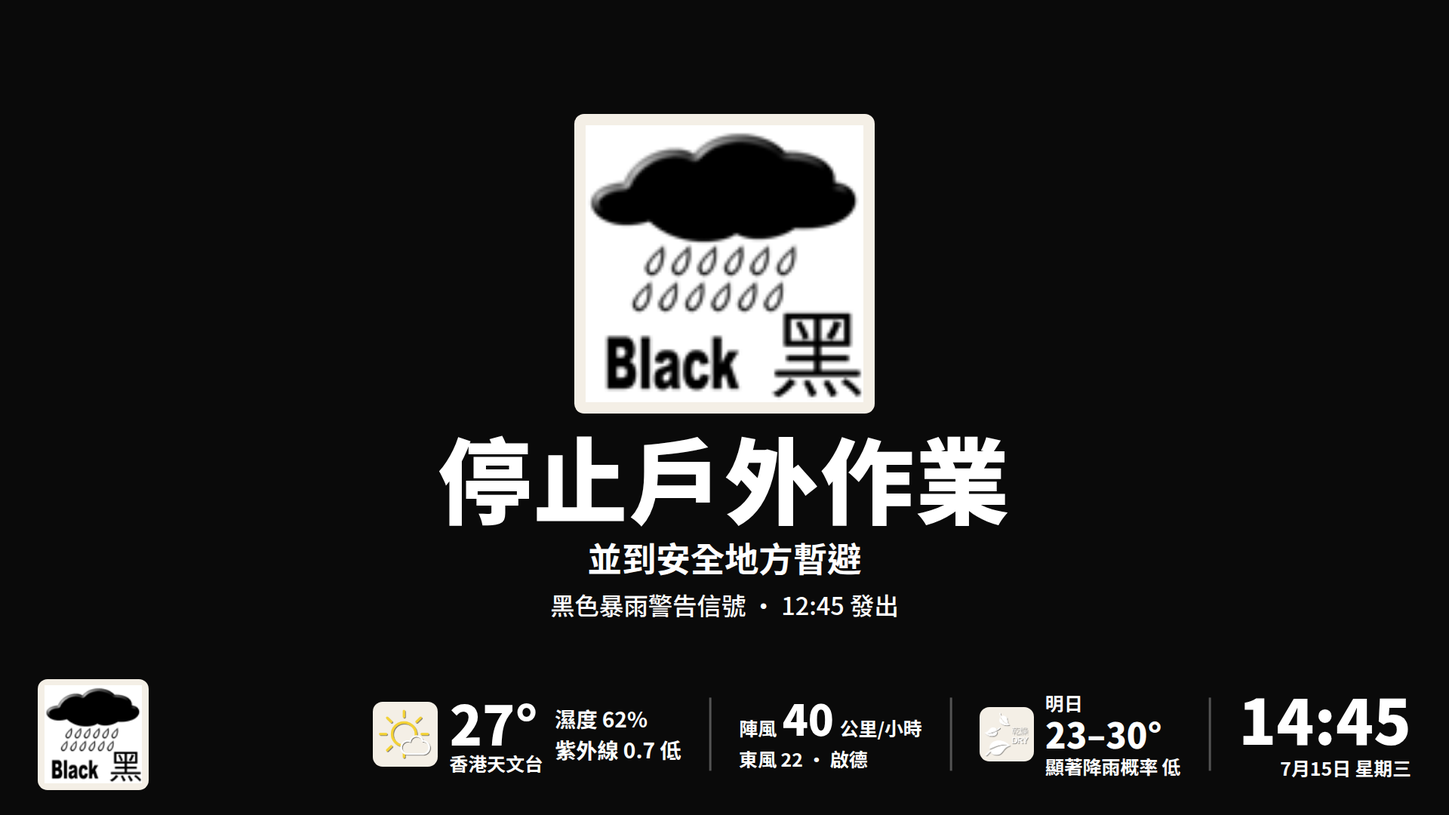
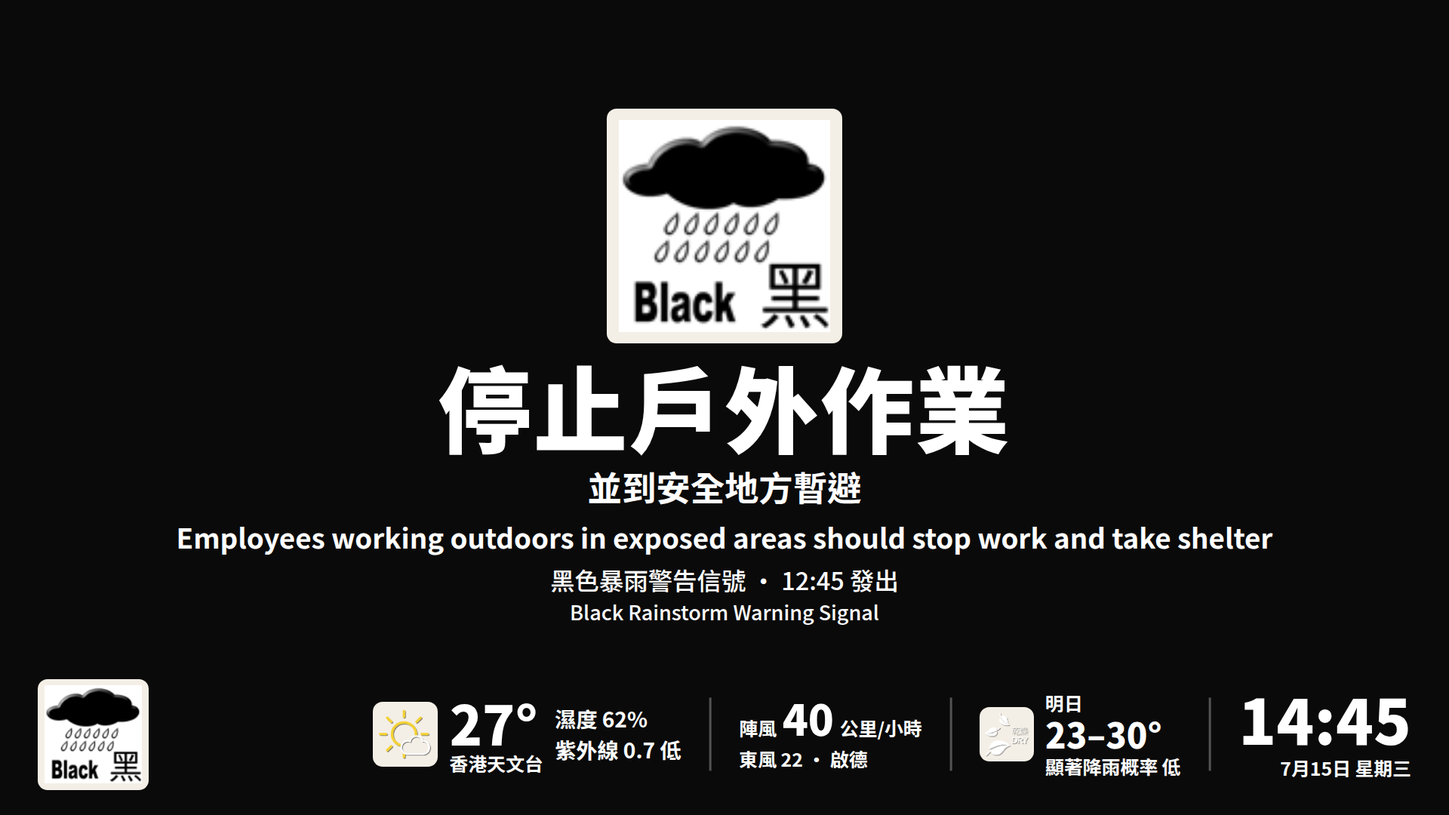
docs: official English line spec, site setup, README and screenshots
- Spec: sources and editions, every English sentence with its source,
  where the official English and Chinese differ, data model, layout and
  measured scales, re-verification.
- README and site setup: "languages" and "labelEn", the English sources,
  the English warning-name feed.
- AGENTS.md: English follows the verbatim rule; every entry needs "en".
- Main spec §9: the April re-check covers the English documents.
- Screenshots regenerated with the demo site, which now shows English,
  plus a Chinese-only Amber day.

Changed region(s): [[0.125, 0.1222, 0.875, 0.7639]]

diff --git a/docs/superpowers/specs/2026-11-07-english-line-design.md b/docs/superpowers/specs/2026-11-07-english-line-design.md
@@ -1,0 +1,190 @@
+# Official English line: design
+
+Date: 2026-11-07. Builds on `2026-10-06-gate-screen-upgrade-design.md` (wording rules, §3 and §9) and `2026-11-07-site-ready-upgrade-design.md` (site files, the measured fit, the weekly source check).
+
+## 1. Goal
+
+Many workers on Hong Kong sites read English but not Chinese. A site can now add an English line to its gate screen, under the Chinese, using **only the official English version of each sentence the screen already shows**:
+
+- The instruction under each warning, from HKO's English advice pages and LD's English Code of Practice.
+- The heat-stress tiles and the normal-day rest lines, from LD's English guidance notes.
+- HKO's English warning names, from HKO's English feeds.
+
+Chinese stays the main text. Where LD or HKO publish no English version of a sentence, the screen shows no English for it. Nothing is translated by us.
+
+## 2. Non-goals
+
+- **Translating anything.** No English is written by us. When an official English sentence does not exist, the line stays Chinese only.
+- **The banner, the bar and the screen's own words** stay Chinese: 主管注意, 正常工作, 最新, 資料過期, 陣風, 濕度 and so on. They are not official sentences, so they have no official English.
+- **The banner in English.** HKO's English feeds have the English text, but the banner is a one-line ticker and would need its own layout. A follow-up if sites ask for it (§12).
+- **Other languages.** Many workers read neither Chinese nor English (South Asian languages in particular), but LD and HKO do not publish these instructions in them, so the same rule allows nothing for them yet.
+- **Changing what is in force.** English never decides a warning, a rest time or a tile. It is looked up after the Chinese screen is decided.
+
+## 3. Sources (checked 2026-11-07)
+
+The current English versions on labour.gov.hk and hko.gov.hk, each the counterpart of a Chinese source already used:
+
+| Key | Source | Edition |
+|---|---|---|
+| `ld-gn-heat-en` | LD, Guidance Notes on Prevention of Heat Stroke at Work, https://www.labour.gov.hk/common/public/oh/Heat_Stress_GN_en.pdf | Third edition (Revised) August 2026 |
+| `ld-cop-weather-en` | LD, Code of Practice in Times of Adverse Weather and "Extreme Conditions", https://www.labour.gov.hk/eng/public/wcp/Rainstorm.pdf | May 2026 |
+| `hko-tc-en` | HKO, Precautionary Measures when Tropical Cyclone Warning Signals are in force, https://www.hko.gov.hk/en/informtc/precaution.htm | web page |
+| `hko-rain-en` | HKO, Rainstorm Warning System, https://www.hko.gov.hk/en/wservice/warning/rainstor.htm | web page |
+| `hko-landslip-en` | HKO, Landslip Warning, https://www.hko.gov.hk/en/wservice/warning/landslip.htm | web page |
+| `hko-tsunami-en` | HKO, Tsunami Monitoring and Warning in Hong Kong, https://www.hko.gov.hk/en/gts/equake/tsunami_mon.htm | web page |
+
+Both English PDFs are the same editions as the Chinese ones (the Code's Chinese version is dated June 2026, its English May 2026), and the English Appendix 4 and 4(a) give the same rest times as `config/rest_schedule.json`. Their sha256, size and Last-Modified are in `config/official_sources_lock.json` (27 Aug 2026 and 4 May 2026).
+
+**Warning names** come from HKO, never from us:
+
+- Warnings in force: HKO's English warning summary, `warnsum` with `lang=en`, the same feed as the Chinese one in English. Polled every 60 s, last in the cycle, so a slow English endpoint never delays the Chinese feeds. It never decides what is in force: names are looked up by code for the warnings the Chinese feed says are in force. A warning whose English name HKO has not sent shows no English name.
+- Heat Stress at Work Warning: `TitleEN` in `hkhi_icon.xml`, next to the `TitleTC` already used (for example "Amber Heat Stress at Work Warning").
+- Pre-No. 8 Special Announcement: not in `warnsum`. Its English name, "Pre-no.8 Special Announcement", is HKO's own, from the English Open Data API documentation (`warningInfo`, code `WTCPRE8`).
+
+## 4. Every English sentence on the screen
+
+Each is a verbatim, contiguous part of the quoted official sentence. The quotes are in `config/display_actions.json`, next to the Chinese.
+
+**Weather instructions** (under the Chinese instruction):
+
+| Warning | English shown | Source |
+|---|---|---|
+| Signal 10 | Remain where you are if protected and be prepared for destructive winds and the change in wind directions | `hko-tc-en` |
+| Signal 9 | Stay indoors. If you are reasonably protected, stay where you are | `hko-tc-en` |
+| Black rain | Employees working outdoors in exposed areas should stop work and take shelter | `hko-rain-en` |
+| Signal 8 | employees should be released from workplaces or from work by batches / Return home as soon as possible if conditions so permit | `ld-cop-weather-en`, `hko-tc-en` |
+| Landslip | Pedestrians should avoid walking or standing close to steep slopes and retaining walls / the operation of cranes, suspended working platforms, slope works, etc. should be suspended | `hko-landslip-en`, `ld-cop-weather-en` |
+| Tsunami | Stay away from shores, beaches and low-lying coastal areas. If you are there, move inland or to higher grounds | `hko-tsunami-en` |
+| Pre-No. 8 | employees should be released from workplaces or from work by batches | `ld-cop-weather-en` |
+| Red rain | Employees working outdoors in areas exposed to rain should suspend outdoor duties if weather conditions in those areas so warrant | `hko-rain-en` |
+
+**Supervisor lines** (CoP Appendix 2):
+
+| Warning | English shown |
+|---|---|
+| Thunderstorm | where employees are liable to lightning strikes: stop work as far as practicable and take shelter in a safe place immediately |
+| Strong Monsoon | the operation of cranes, suspended working platforms, slope works, etc. should be suspended |
+| Signals 1 and 3 | Stop the operation of cranes, suspended working platforms, etc. |
+| Amber rain | Suspend the operation of suspended working platforms, slope works, etc. |
+
+**Heat stress** (guidance notes):
+
+| Where | English shown | Source in the guidance notes |
+|---|---|---|
+| Tile, rest and work | `{rest} mins rest`, `{work} mins work` | Appendix 4 cells, e.g. "45 mins work 15 mins rest (75% work; 25% rest)" |
+| Tile, suspended | Suspension of work | Appendix 4 |
+| Tile, 2-hour baseline | at least `{rest}` minutes of rest for every `{hours}` hours of work | §5.5.4 |
+| Generic site's tile labels | Light, Moderate, Heavy, Very Heavy | Appendix 4 column headings |
+| Note | employees are unacclimatised or need to re-acclimate to hot work environment: increase the hourly rest time for such employees by 15 minutes | §5.4.4 |
+| Normal day | heavy to very heavy levels of physical work: at least a `{rest}`-minute rest break after every `{hours}` hours of work, and the same for light to moderate work with "a minimum of a `{rest}`-minute rest break" | §4.7.1 |
+
+The rest wording is a template because the numbers live in `config/rest_schedule.json` only (AGENTS.md). The test fills it in with every value the schedule can produce, for every warning level, workload, environment and site adjustment, and checks each result against the quotes. A schedule change that the quoted paragraphs do not cover (a baseline of 20 minutes, say) fails the test until a person re-verifies the guidance notes.
+
+**Where the official English and Chinese differ.** Each language shows its own official text, so these differences reach the screen as LD and HKO wrote them:
+
+- **Red rain:** the Chinese says suspend outdoor work 直至天氣情況許可為止 (until the weather permits). The English says "suspend outdoor duties if weather conditions in those areas so warrant".
+- **Signal 10:** the Chinese says do not leave shelter (切勿離開有遮蔽的地方). The English says "Remain where you are if protected".
+- **Thunderstorm:** the English shown includes "as far as practicable", which sits inside the one English clause. The Chinese line leaves out 在切實可行範圍內盡量, which comes before its fragment.
+- **Signals 1 and 3, amber rain:** the English keeps "etc.", and the Chinese fragments end before 等.
+- **Strong Monsoon and Landslip (CoP):** the condition says "Strong Monsoon Signal **or** Landslip Warning" in English and 強烈季候風信號**及**山泥傾瀉警告 in Chinese. The screen shows only the instruction, which is the same in both.
+- **Signal 8 (HKO):** the English puts the condition last ("…if conditions so permit"), the Chinese first (如情況許可，…).
+
+## 5. Data
+
+**Site file.** Two optional fields, validated like the others (a mistake leaves the file out and names it in `/api/v1/health`):
+
+| Field | Meaning |
+|---|---|
+| `languages` | `["zh"]` (the default) or `["zh", "en"]`. Chinese is always shown, so anything without `"zh"`, an unknown code or a repeat is a mistake |
+| `primaryTrades[].labelEn` | The trade's English name, shown under `labelZh` on the tiles. A non-empty string |
+
+`labelEn` is the site's own name for the trade, as `labelZh` is. The demo site uses the names in the English Appendix 1 of the guidance notes, which is what sites should use where the trade is listed. A tile shows English names only when every trade on it has one. Otherwise it shows the English rest times without names, never a mix. The generic site's tiles use the official English workload levels.
+
+**`config/display_actions.json`.**
+
+- Every source has `"lang": "zh"` or `"en"`, and the six English sources are added (§3).
+- Every weather, supervisor and note entry has an `"en"` key: its English `lines` (weather) or `fragments` (supervisor, note), with their own `quotes`. `"en": null` means no official English sentence exists, and the screen shows none. The key is required, so a new entry cannot silently miss its English.
+- A new `rest` section holds the English rest templates and their quotes.
+
+**The guard** (`app/actions.py`, `tests/test_display_actions.py`):
+
+- An English fragment must be a contiguous part of one of its quotes, and the quote must come from an English source. Chinese must come from a Chinese source.
+- Chinese ignores whitespace, because PDF text breaks lines anywhere. English treats a run of whitespace as one space, so a changed word boundary ("Stayindoors") fails. A line break inside a stored fragment does not.
+- The only text on the screen that is not quoted is the joiner between fragments, `：` in Chinese and `: ` in English.
+
+**Snapshot.** English fields appear only for a site that shows English, so a Chinese-only snapshot is unchanged apart from `site.languages`:
+
+| Field | Content |
+|---|---|
+| `display.en` | The English lines under the instruction: the warning's, or the normal day's rest lines. `[]` on heat-stress days, whose English is on the tiles |
+| `display.metaEn` | HKO's English warning or HSWW name, or `null` |
+| `restTiles[].en` | `trades`: the English names, or `null`. `lines`: the tile's English |
+| `supervisor[].textEn`, `fromEn` | The line's English and the warning's English name, either `null` when there is none |
+| `notesEn` | One per Chinese note, in the same order, `null` where there is none |
+| `site.languages` | Always present |
+
+## 6. Warning names fixed on the way
+
+HKO's `warnsum` puts only the colour in `type` for rainstorm and fire danger warnings (`"黃色"`, `"Amber"`), with the name in `name`. The screen showed `type` whenever it was present, so the live screen named a black rainstorm 「黑色」. Tropical cyclone signals carry their full name in `type`. `warning_name()` now joins colour and name for `WRAIN*` and `WFIRE*` (黑色暴雨警告信號, "Black Rainstorm Warning Signal"). The preview cases now use the live feed's shape. Separate commit, `82b8bed`.
+
+## 7. Screen
+
+- **Weather and normal days:** the English lines go under the Chinese instruction as one block, a little smaller than the Chinese sub-line (Latin letters already look smaller than Chinese at the same size) and lighter. They are balanced when they wrap and never hyphenated, and a hyphenated word ("re-acclimate", "15-minute") never breaks at its hyphen. HKO's English warning name goes under the Chinese warning line.
+- **Tiles:** the English trade names go under the Chinese ones, in the tile's heading. The tile's English goes under its Chinese lines as one block: "45 mins rest" and "15 mins work" side by side when they fit, "Suspension of work", or the 2-hour baseline's one sentence, which covers both its Chinese lines. So the Chinese lines stay together, as on a Chinese-only site. An English trade name stays on one line when it fits and wraps inside itself only when it is wider than the tile. An earlier version put each English line under its own Chinese line. It was busier and taller: 65 % against 67 % for the busy test site's Amber day in landscape.
+- **Supervisor lines:** the English takes a row of its own in the same box, with the warning's English name after it.
+- **The icon gives up room first.** On a site that shows English, the large icon is smaller (landscape weather and normal days 26 % of the height instead of 34 %), so most screens fit without shrinking.
+- **The measured fit still applies.** The centre is scaled down as a whole when it is too tall, to no less than 60 %.
+- **English never takes the Chinese's room.** If the centre does not fit even at 60 %, the screen gives up English, lowest value first: the warning's English name and the note's English, then the supervisor lines' English, then all of it. With everything given up, the centre is no taller than on a Chinese-only site, because the icon is smaller too. New content or a new screen size starts again from nothing given up, and the measurement runs before paint. The rule is to shrink first and give up English only at the floor, because the English is official safety wording too, and the existing design already accepts 60 % on busy days.
+
+**Measured** at 1920×1080 and 1080×1920 with the demo site, every preview case (§10). The scale is the centre's size (100 % = not shrunk), with the Chinese-only figure for the same case in brackets:
+
+| Case | Landscape | Portrait |
+|---|---|---|
+| Weather instructions (Signals 8–10, black and red rain, tsunami, Pre-No. 8, landslip) | 98–100 % (100 %) | 100 % (100 %) |
+| Normal day, with or without other warnings on the bar | 95 % (100 %) | 91–100 % (100 %) |
+| Heat stress, Amber / Red / Black | 96–100 % (100 %) | 76–78 % (96–100 %) |
+| Normal day with one supervisor line (Signal 1 or 3, Strong Monsoon, amber rain, thunderstorm) | 83–86 % (100 %) | 75–89 % (94–100 %) |
+| Amber heat stress with Signal 1 or 3 | 85 % (100 %) | 66 % (94 %) |
+| Amber rain with Signal 3 (two supervisor lines) | 78 % (98 %) | 71 % (94 %) |
+| Amber heat stress with a thunderstorm | 82 % (100 %) | 64 %, the warning's and the note's English given up (81 %) |
+
+Nothing runs into the bar or under the banner in any case, in either orientation. The busiest days are portrait heat-stress days with a supervisor line, which the Chinese-only screen already shrinks. A busy test site with five or six tile groups and long English names shows everything at 60–67 % in landscape. In portrait it gives up the warning's and the note's English on heat-stress days (63 %), and all of the English when a supervisor line is added too (67–75 %). Nothing overlaps there either.
+
+## 8. Rules for the future
+
+- English wording follows the same rule as Chinese: a verbatim, contiguous part of a quoted official English sentence, from an English source, in `config/display_actions.json`. Never a translation and never a paraphrase. AGENTS.md says so.
+- A new instruction needs its `"en"`: the official English, or `null` when there is none.
+- The screen's position, like everything else, never changes the English.
+
+## 9. Re-verification
+
+- The weekly check (`scripts/check_official_sources.py`) downloads the English sources too and checks every English quote, including the rest wording. The two English LD PDFs are in the lock, so a change to either fails the check until a person has re-verified it.
+- The April checklist (main spec §9) now includes the English documents. Compare the English Appendix 4 and 4(a) with `config/rest_schedule.json` as well, and check the English trade names in site files when Appendix 1 changes.
+- Run on 2026-11-07: all 12 sources downloaded and every Chinese and English quote found. The two English PDFs were then added to the lock.
+
+## 10. Testing
+
+- pytest, 299 tests (43 new). New:
+  - the guard: an English paraphrase, a joined-up word, a line break, a Chinese source cited for English and the reverse, a missing `"en"`, `null`, an empty list, and a missing or unknown `lang`;
+  - the rest wording: every value the schedule can give, a schedule the quotes do not cover, a broken template, and the normal-day grouping;
+  - site files: `languages` (valid, missing `"zh"`, unknown code, repeat, not a list) and `labelEn`;
+  - tiles: English names, the generic site's workload levels, and a tile with a trade that has no English name;
+  - snapshots: a Chinese-only site gets no English field; weather, Pre-No. 8, heat and normal days in English; no English name rather than a guess;
+  - every preview case: English never changes the Chinese, and every case has its English where an official one exists;
+  - the API: names from HKO's English feed, a Chinese-only `?site=`, a failing English feed never affecting warnings or health, and the poller asking for `lang=en`;
+  - the source check: English sources, quotes and the rest section.
+- Real Chrome (Playwright, by hand), every preview case at 1920×1080 and 1080×1920:
+  - with English (demo site): nothing runs into the bar or under the banner, nothing leaves the screen or its tile, no text wider than its box, no overlap between lines, and no console errors;
+  - Chinese-only (the demo site without `languages`): pixel-identical to the screen before this change in all 88 screens. A first pass differed in a few screens only where HKO's blinking "issuing" icons (two-frame GIFs) were caught on the other frame, or a web-font subset arrived late; each was identical when shot again. The new Chinese-only screenshot `docs/demo/amber-zh.png` is byte-identical to the old `amber.png`;
+  - a busy test site (five or six tile groups, long English names) on heat-stress days, to check the English is given up in order and nothing overlaps.
+
+## 11. Rollout
+
+1. Deploy as usual. The snapshot is backward compatible: new fields only, and only for sites that show English. An older kiosk ignores them, and the new kiosk shows no English with an older server.
+2. **The demo site now shows English**, so the live demo will too.
+3. Real sites stay Chinese only until their file says `"languages": ["zh", "en"]`. Add `labelEn` to the trades at the same time, then preview the tiles (`?preview=1&site=<siteId>&fixture=amber`) in both orientations.
+
+## 12. Follow-ups
+
+- **The banner in English**, from HKO's English warning text, if sites ask for it.
+- **「極端情況」**, the worker phone page and supervisor alerts, as in the site-ready spec §12. Each should get its English under the same rule.

diff --git a/README.md b/README.md
@@ -2,7 +2,7 @@
 
 Hong Kong construction **site notice**: live Labour Department Heat Stress at Work Warning (HSWW) and HKO weather warnings on one screen at the gate.
 
-Official HKO / Labour Department icons and wording only. Every state uses one centred layout, in landscape or portrait: a large official icon, the instruction, and a bottom bar with every warning in force, the temperature and the wind at the nearest HKO stations, tomorrow's forecast with its chance of significant rain, and the clock. On heat-stress days the instruction becomes one tile per rest time, labelled with the site's trades. One server runs many sites, and each screen runs unattended. Not a 4S system. Not a sensor product.
+Official HKO / Labour Department icons and wording only. Every state uses one centred layout, in landscape or portrait: a large official icon, the instruction, and a bottom bar with every warning in force, the temperature and the wind at the nearest HKO stations, tomorrow's forecast with its chance of significant rain, and the clock. On heat-stress days the instruction becomes one tile per rest time, labelled with the site's trades. A site can add an English line under the Chinese, made only of the official English versions of the same sentences. One server runs many sites, and each screen runs unattended. Not a 4S system. Not a sensor product.
 
 ## Live demo
 
@@ -11,6 +11,8 @@ Official HKO / Labour Department icons and wording only. Every state uses one ce
 | Live | https://hksite-display.loadingtechnology.app/ |
 | Preview (switch cases; does not overlay live) | https://hksite-display.loadingtechnology.app/?preview=1 |
 | Gallery (every official icon + case) | https://hksite-display.loadingtechnology.app/?gallery=1 |
+
+The demo site shows the official English line (`"languages": ["zh", "en"]`):
 
 ![Normal day, 16:9](docs/demo/live-16x9.png)
 
@@ -22,22 +24,30 @@ Same URL, portrait:
 
 ![Normal day, 9:16](docs/demo/live-9x16.png)
 
-Design and decisions: `docs/superpowers/specs/` ([gate screen](docs/superpowers/specs/2026-10-06-gate-screen-upgrade-design.md), [weather station by location](docs/superpowers/specs/2026-10-06-weather-station-by-location-design.md), [site-ready upgrade](docs/superpowers/specs/2026-11-07-site-ready-upgrade-design.md)). Installing a screen: [docs/site-setup.md](docs/site-setup.md).
+![Amber heat stress, 9:16](docs/demo/amber-9x16.png)
+
+A site without `languages` shows Chinese only, exactly as before:
+
+![Amber heat stress, Chinese only](docs/demo/amber-zh.png)
+
+Design and decisions: `docs/superpowers/specs/` ([gate screen](docs/superpowers/specs/2026-10-06-gate-screen-upgrade-design.md), [weather station by location](docs/superpowers/specs/2026-10-06-weather-station-by-location-design.md), [site-ready upgrade](docs/superpowers/specs/2026-11-07-site-ready-upgrade-design.md), [official English line](docs/superpowers/specs/2026-11-07-english-line-design.md)). Installing a screen: [docs/site-setup.md](docs/site-setup.md).
 
 ## Rules the notice will not break
 
 - HSWW level comes only from `hkhi_icon.xml` `iconIndex` (30 amber / 32 red / 34 black). Never inferred from HKHI CSV or the title string.
 - Rest minutes live in `config/rest_schedule.json` only (LD guidance Appendix 4; the indoor −15 minute adjustment reproduces Appendix 4(a)).
 - Instruction text lives in `config/display_actions.json`, stored with the official sentence it comes from. `tests/test_display_actions.py` fails if a displayed fragment is not a verbatim part of its quote.
+- English follows the same rule: each English line is a verbatim part of the official English version of the sentence, quoted from LD's or HKO's English document next to the Chinese, under the same test. Where no official English sentence exists, the screen shows no English. Nothing is translated, and Chinese stays the main text.
 - Warning marks are official HKO/LD files. We do not draw substitute typhoon / rain / heat symbols.
 - Wind is HKO's reading at a named station, nothing more. The screen never turns it into a limit or an instruction: lifting limits are the crane's or gondola's own.
 - `GET /api/v1/snapshot` is always live. `POST /sim` is preview-only.
 
-## Official sources (checked 2026-10-06)
+## Official sources (checked 2026-10-06; English 2026-11-07)
 
 - Labour Department 《預防工作時中暑指引》, 3rd edition (revised) Aug 2026: https://www.labour.gov.hk/common/public/oh/Heat_Stress_GN_tc.pdf
 - Labour Department 《惡劣天氣及「極端情況」下的工作守則》, May 2026: https://www.labour.gov.hk/tc/public/pdf/wcp/Rainstorm.pdf
 - HKO advice pages for tropical cyclone signals, rainstorms, landslips and tsunamis (URLs in `config/display_actions.json`)
+- The English versions, for the English line: LD *Guidance Notes on Prevention of Heat Stroke at Work*, Third edition (Revised) August 2026 (https://www.labour.gov.hk/common/public/oh/Heat_Stress_GN_en.pdf), LD *Code of Practice in Times of Adverse Weather and "Extreme Conditions"*, May 2026 (https://www.labour.gov.hk/eng/public/wcp/Rainstorm.pdf), and HKO's English advice pages
 - HKO Open Data API documentation: https://data.weather.gov.hk/weatherAPI/doc/HKO_Open_Data_API_Documentation.pdf
 
 Re-check every April and whenever LD or HKO announce a revision (spec §9).
@@ -58,6 +68,7 @@ GitHub notifies whoever last changed the schedule when a scheduled run fails. In
 |---|---|---|
 | HSWW | `https://www.hko.gov.hk/wxinfo/hkhi/hkhi_icon.xml` | 60 s |
 | Warnings | HKO Open Data `warnsum` + `warningInfo` | 60 s |
+| English warning names, for the English line | HKO Open Data `warnsum` with `lang=en`. Names only: it never decides what is in force | 60 s |
 | Current weather | HKO Open Data `rhrread` | 10 min |
 | 9-day forecast, with each day's chance of significant rain (`PSR`) | HKO Open Data `fnd` | 30 min |
 | 10-minute wind and gust | HKO `latest_10min_wind_uc.csv` (regional weather) | 5 min |
@@ -67,7 +78,7 @@ Each feed is cached separately, and a failing feed keeps its last value.
 - It hides the weather after 90 minutes, the wind after 30 minutes and the forecast after 12 hours.
 - The notice refreshes `/api/v1/snapshot` every 30 s.
 
-When the warning icons need the room on a landscape bar, the bar hides humidity and UV first, then tomorrow, then the wind. It never hides the warnings or the clock. In portrait the bar becomes two rows. If the centre content is too tall, it shrinks as a whole rather than lose a line of official wording.
+When the warning icons need the room on a landscape bar, the bar hides humidity and UV first, then tomorrow, then the wind. It never hides the warnings or the clock. In portrait the bar becomes two rows. If the centre content is too tall, it shrinks as a whole rather than lose a line of official wording. On a site that shows English, English lines are given up, least useful first, only when the centre would not fit even at its smallest size. The Chinese always keeps its room.
 
 Icons: `apps/kiosk/public/official/` (see its README). Refresh them with `python3 scripts/fetch_official_icons.py`.
 
@@ -94,12 +105,13 @@ Stations and coordinates are HKO's own (https://www.hko.gov.hk/en/cis/stn.htm). 
 |---|---|
 | `siteId` | The screen's `?site=` (default: the file name). Use a code that does not reveal the site, because anyone who knows it can read the site's file through the API |
 | `nameZh` | The site's name, returned by the API. Keep it generic if the name is confidential |
+| `languages` | `["zh"]` (default) or `["zh", "en"]` to add the official English line under the Chinese |
 | `weatherStation` | HKO station shown when the screen has no location (default 香港天文台); must be in `stations` in `config/hko_stations.json` |
 | `windStation` | HKO wind station shown when the screen has no location (default: no wind block); must be in `windStations` in `config/hko_stations.json` |
 | `environment` | `outdoor`, `indoor` (no air-conditioning) or `aircon`; the default for every trade |
 | `restAdjustMinutes` | Employer's adjustment under LD guidance §5.3–5.5: a multiple of 15, from −30 to +60 |
 | `defaultWorkload` | `light`, `moderate`, `heavy` or `very_heavy` |
-| `primaryTrades[]` | `labelZh`, `workload`, and optional per-trade `environment` and `adjustMinutes` |
+| `primaryTrades[]` | `labelZh`, `workload`, and optional per-trade `labelEn` (the trade's English name, shown on the tiles of a site with English), `environment` and `adjustMinutes` |
 
 **Several sites.**
 

diff --git a/docs/site-setup.md b/docs/site-setup.md
@@ -33,6 +33,8 @@ nano config/sites/s7k2.json
 - **`environment`**: `outdoor`, `indoor` (no air-conditioning) or `aircon`. Set it on a trade when that trade differs from the rest of the site.
 - **`restAdjustMinutes`**: leave it at `0`, unless the employer's heat stress risk assessment sets an adjustment (Labour Department guidance §5.3–5.5).
 - **`weatherStation`** and **`windStation`**: what the bar shows when the screen has no location. Pick the nearest HKO stations from `config/hko_stations.json`: `stations` for the temperature, `windStations` for the wind. Do not pick 昂坪 or 大老山 for the wind unless the site is on a hill: they measure hill-top winds.
+- **`languages`**: leave it out for Chinese only. `["zh", "en"]` adds an English line under the Chinese for workers who read English. It uses only the English versions that the Labour Department and HKO publish of the same instructions, so a line with no official English stays Chinese only. Chinese is always shown.
+- **`labelEn`**, on each trade of a site with English: the trade's English name, shown under the Chinese name on the heat-stress tiles. Use the name in the English Appendix 1 of the Labour Department guidance where the trade is listed there (the demo site's names come from it). A tile shows English names only when every trade on it has one.
 
 Restart the service, wait 10 seconds, and check:
 
@@ -47,6 +49,8 @@ Then see what your site's screen will show on hot days, before the hot season:
 
 - `https://YOUR-DOMAIN/?preview=1&site=s7k2&fixture=amber`
 - the same with `fixture=red` and `fixture=black`
+
+With English, look at these in the screen's own orientation too: portrait tiles are narrow, and a long English trade name takes two lines.
 
 ## 3. Set up the player
 
@@ -99,7 +103,7 @@ Chrome is not available for Android TV, so use a kiosk browser app, for example 
 
 1. The clock on the bar shows the right time. The screen shows the server's time, so a wrong time means the server's clock is wrong, not the player's.
 2. The bar shows a station name under the temperature and the wind: the nearest one if the location was allowed, otherwise the site's own.
-3. With the preview addresses from step 2, the tiles show the site's trade names, not 輕勞動 / 中等勞動 / 重勞動 / 極重勞動.
+3. With the preview addresses from step 2, the tiles show the site's trade names, not 輕勞動 / 中等勞動 / 重勞動 / 極重勞動. On a site with English, each tile shows the English names under the Chinese ones.
 4. Switch everything off at the socket, then on. Within a few minutes the notice is back with nobody touching it.
 5. Unplug the internet. After 10 minutes the screen shows 資料過期 — 請以我的天文台為準. Plug it back: the message clears by itself within a minute.
 

diff --git a/AGENTS.md b/AGENTS.md
@@ -5,6 +5,7 @@
 - Do not commit `.env`, real site files or real site names. Only `config/sites/demo-site.json` is in git; real site files live on the server.
 - Rest numbers live in `config/rest_schedule.json` only. UI must not hardcode minutes.
 - Instruction text lives in `config/display_actions.json`. Every displayed fragment must be a verbatim, contiguous part of a quoted official sentence; `tests/test_display_actions.py` enforces this. Never paraphrase official wording.
+- English (sites with `"languages": ["zh", "en"]`) follows the same rule: a verbatim part of the official English sentence, quoted from an English LD/HKO source next to the Chinese. Never translate. Every entry needs `"en"`: its English, or `null` when no official English exists, and then no English is shown. HKO's English warning names come from HKO's feeds, never from a table we write.
 - Re-verify the official sources every April and whenever LD or HKO announce revisions (checklist: `docs/superpowers/specs/2026-10-06-gate-screen-upgrade-design.md` §9). The weekly check (`scripts/check_official_sources.py`) only flags a change. Run `--update-lock` only after a person has re-verified the changed PDF.
 - The screen's position only chooses the weather and wind stations. It must never influence warnings, rest times or wording, and must stay out of logs. Show humidity only with 香港天文台. Station coordinates live in `config/hko_stations.json` (`scripts/fetch_hko_stations.py`).
 - Wind is HKO's reading at a named station. Never turn it into a limit, advice or an instruction.

diff --git a/docs/superpowers/specs/2026-10-06-gate-screen-upgrade-design.md b/docs/superpowers/specs/2026-10-06-gate-screen-upgrade-design.md
@@ -455,6 +455,7 @@ Run this each April, before the hot season, and whenever LD or HKO announce revi
 2. Re-read the HKO advice pages in §3 and update the quotes. The wording-guard test then forces matching screen text.
 3. Update `sources[*].checked` dates.
 4. Run `python3 scripts/fetch_hko_stations.py --check`. It compares `config/hko_stations.json` with HKO's station page and reports any station in the live weather report that has no coordinates yet.
+5. Do steps 1–3 for the English versions too (English line spec, `2026-11-07-english-line-design.md` §3): the two English LD PDFs, including their Appendix 4 and 4(a) against `rest_schedule.json`, and HKO's English advice pages. When Appendix 1 changes, check the English trade names (`labelEn`) in the site files.
 
 ## 10. Known gaps (later sub-projects)
 
